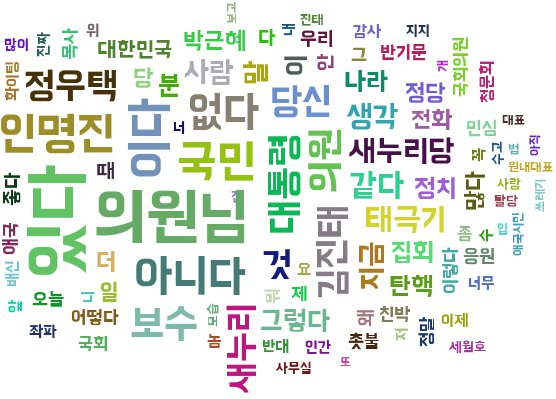
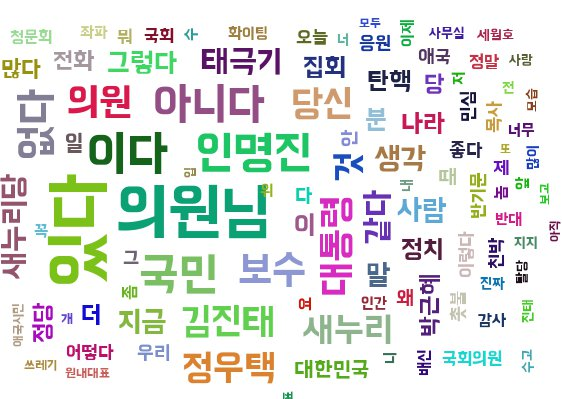
취소버튼 안눌르고 모달 꺼져도 리셋, 빈도수 테이블 스크롤바 구현

diff --git a/server/app/templates/reply.html b/server/app/templates/reply.html
@@ -134,7 +134,7 @@
         <!-- Team Members Row -->
         <div class="row">
             <div class="col-lg-12">
-                <h1 class="page-header text-left">Twitter Analysis&nbsp;<small>통합(Tweet+Reply) 분석</small>&nbsp;
+                <h1 class="page-header text-left">Twitter Analysis&nbsp;<small>Reply 분석</small>&nbsp;
                     <!-- Button trigger modal -->
                     <button type="button" class="btn btn-warning" data-toggle="modal" data-target="#myModal">
                         <span class="glyphicon glyphicon-cog"></span>&nbsp;정치인 선택

diff --git a/server/app/templates/tweet.html b/server/app/templates/tweet.html
@@ -134,7 +134,7 @@
         <!-- Team Members Row -->
         <div class="row">
             <div class="col-lg-12">
-                <h1 class="page-header text-left">Twitter Analysis&nbsp;<small>통합(Tweet+Reply) 분석</small>&nbsp;
+                <h1 class="page-header text-left">Twitter Analysis&nbsp;<small>Tweet 분석</small>&nbsp;
                     <!-- Button trigger modal -->
                     <button type="button" class="btn btn-warning" data-toggle="modal" data-target="#myModal">
                         <span class="glyphicon glyphicon-cog"></span>&nbsp;정치인 선택

diff --git a/server/app/run.py b/server/app/run.py
@@ -88,7 +88,7 @@ def tweet():
                                 fontname='BMHANNA_11yrs_ttf', rectangular=False)
     print("Right done!")
 
-    return render_template('integration.html',
+    return render_template('tweet.html',
                            left_freq=left_word, right_freq=right_word,
                            left_select=json.dumps(left_select),
                            right_select=json.dumps(right_select))
@@ -111,7 +111,7 @@ def reply():
                                 fontname='BMHANNA_11yrs_ttf', rectangular=False)
     print("Right done!")
 
-    return render_template('integration.html',
+    return render_template('reply.html',
                            left_freq=left_word, right_freq=right_word,
                            left_select=json.dumps(left_select),
                            right_select=json.dumps(right_select))
